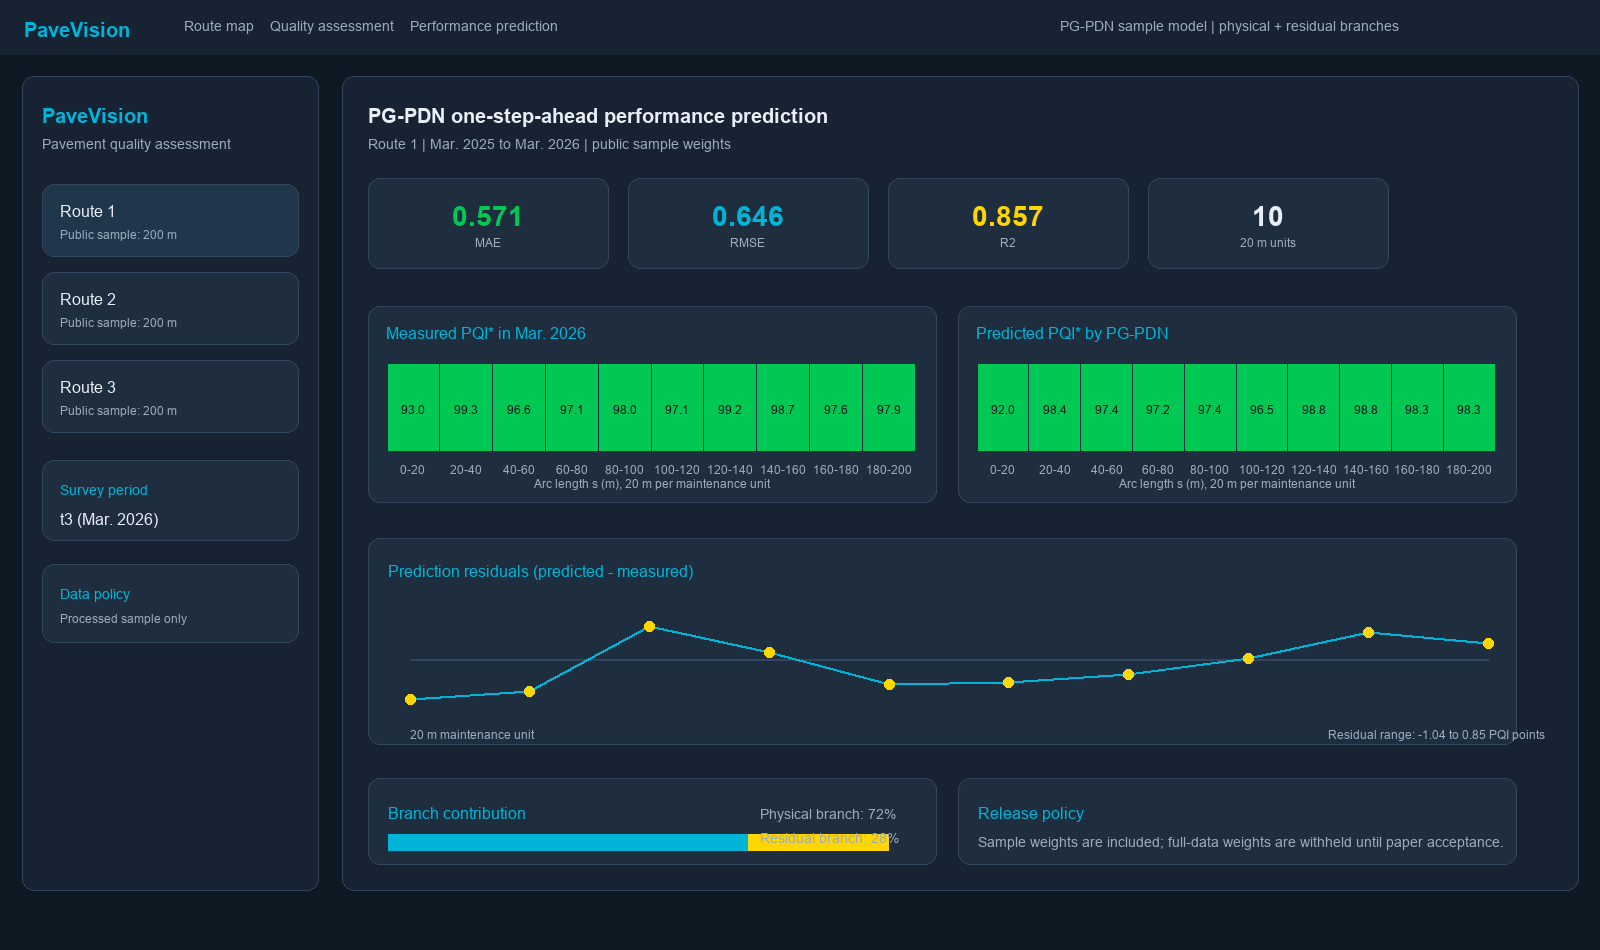
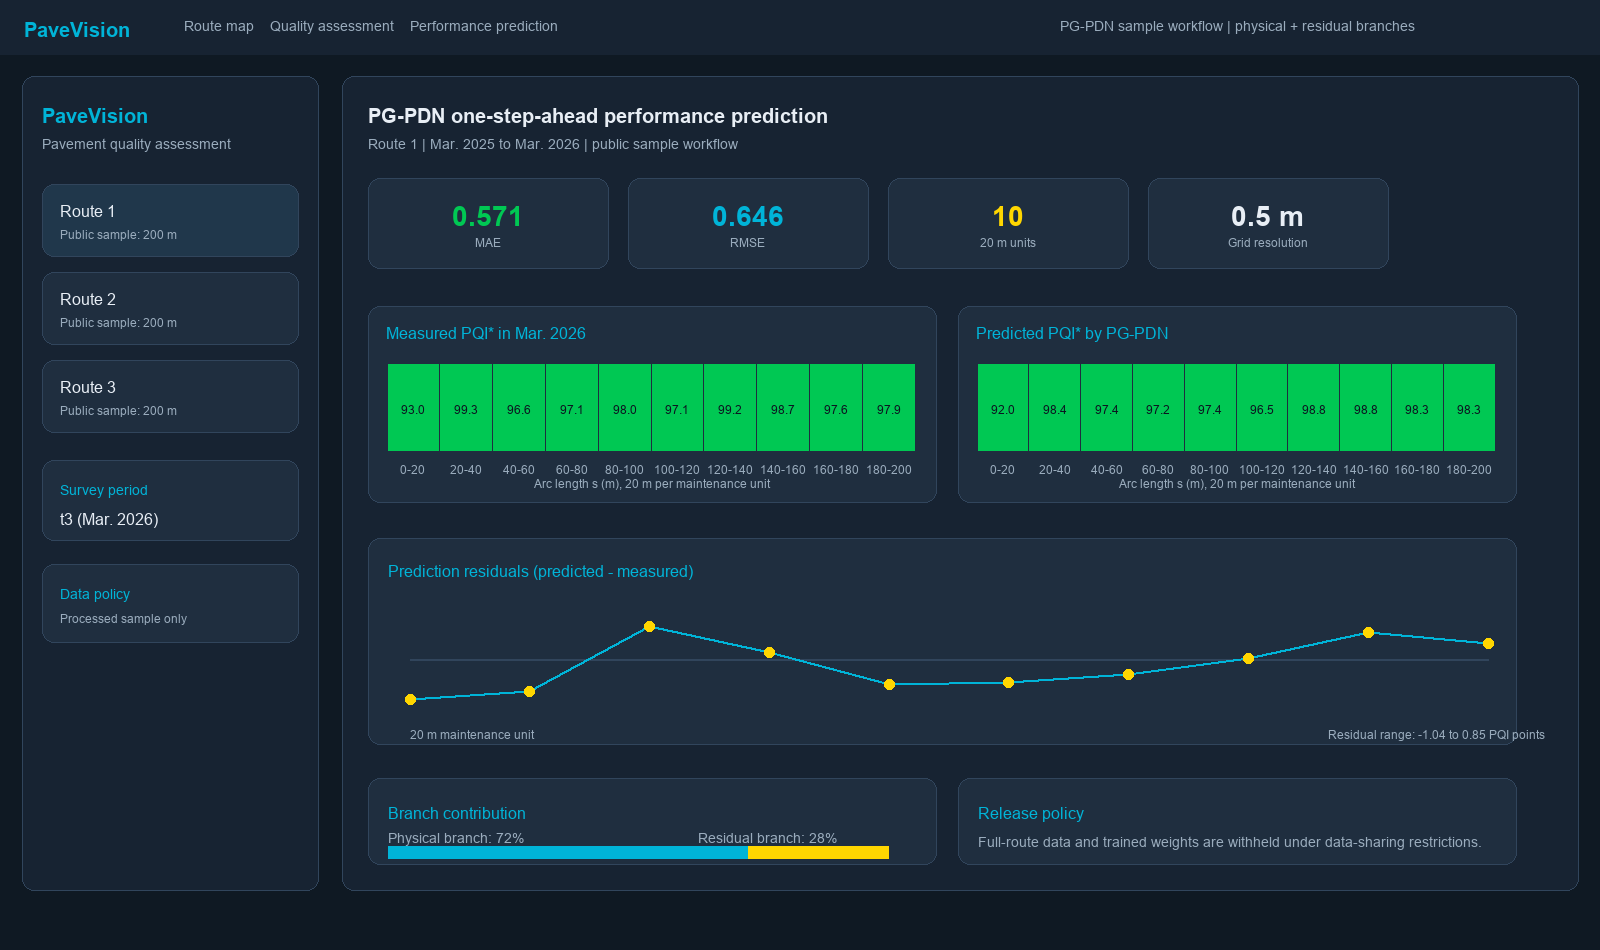
Align README previews with manuscript figures

diff --git a/README.md b/README.md
@@ -22,29 +22,35 @@ The route-map view provides the first entry point for pavement engineers. Clicki
 
 ![PaveVision performance prediction module](assets/web_prediction_module.png)
 
-### 0.5 m Grid-Level Prediction Examples
+### PG-PDN Network Architecture
 
-The examples below show the fine-resolution grid-level quality and prediction outputs used for visual inspection. They are included to demonstrate how the method preserves local pavement-quality variation before aggregation to 20 m maintenance units.
+The PG-PDN architecture combines an interpretable physical degradation branch with a GRU residual correction branch. This public package keeps the model interface, feature schema, loss terms and visualization workflow consistent with the manuscript, while withholding full survey data and trained full-data weights.
 
-#### LSTM
+![PG-PDN network architecture](assets/pgpdn_architecture.png)
 
-![Route 1 grid-level LSTM result](assets/grid_route1_lstm.png)
+### Historical Measurements and PG-PDN Prediction at 0.5 m Resolution
 
-#### XGBoost
+The fig10 series visualizes Route 3 at 0.5 m grid resolution: March 2024 measured quality, March 2025 measured quality, March 2026 PG-PDN prediction, March 2026 measured quality and the prediction residual. These images illustrate measured-to-predicted spatial continuity rather than a comparison among different learning algorithms.
 
-![Route 1 grid-level XGBoost result](assets/grid_route1_xgboost.png)
+#### March 2024 Measured
 
-#### GRU
+![Route 3 March 2024 measured grid-level PQI*](assets/fig10a_route3_2024_measured.png)
 
-![Route 1 grid-level GRU result](assets/grid_route1_gru.png)
+#### March 2025 Measured
 
-#### PG-PDN
+![Route 3 March 2025 measured grid-level PQI*](assets/fig10b_route3_2025_measured.png)
 
-![Route 1 grid-level PG-PDN result](assets/grid_route1_pgpdn.png)
+#### March 2026 Predicted
 
-#### PG-PDN Prediction Error
+![Route 3 March 2026 PG-PDN predicted grid-level PQI*](assets/fig10c_route3_2026_predicted.png)
 
-![Route 1 grid-level PG-PDN prediction error](assets/grid_route1_pgpdn_error.png)
+#### March 2026 Measured
+
+![Route 3 March 2026 measured grid-level PQI*](assets/fig10d_route3_2026_measured.png)
+
+#### Prediction Residual
+
+![Route 3 grid-level PG-PDN prediction residual](assets/fig10e_route3_prediction_residual.png)
 
 ## What Is Included
 